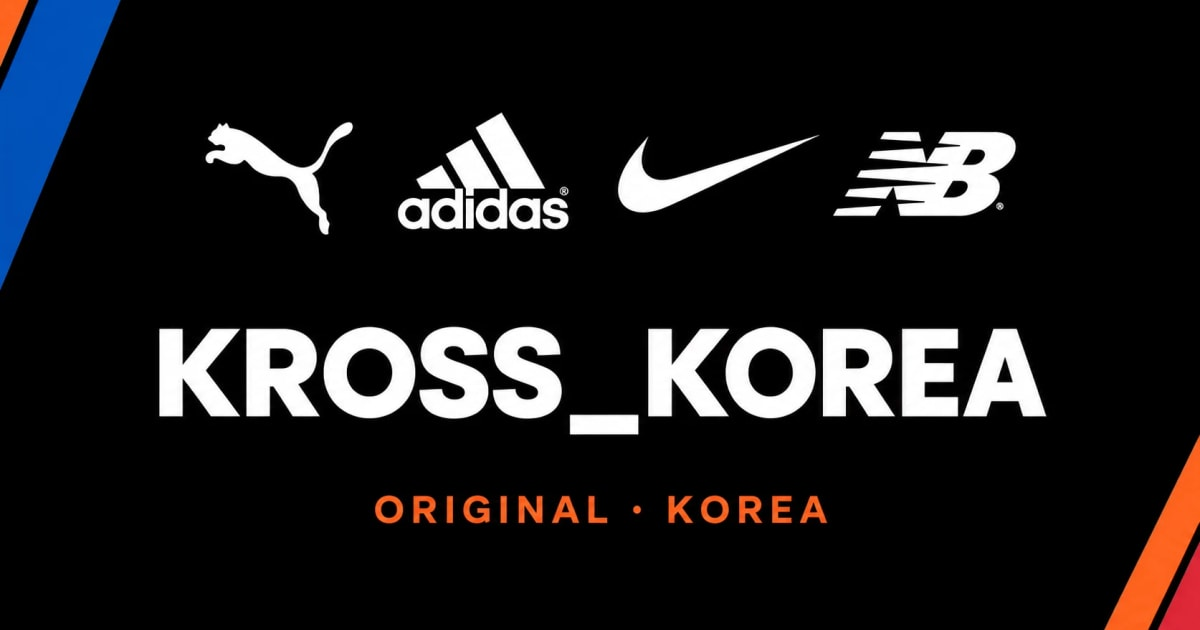
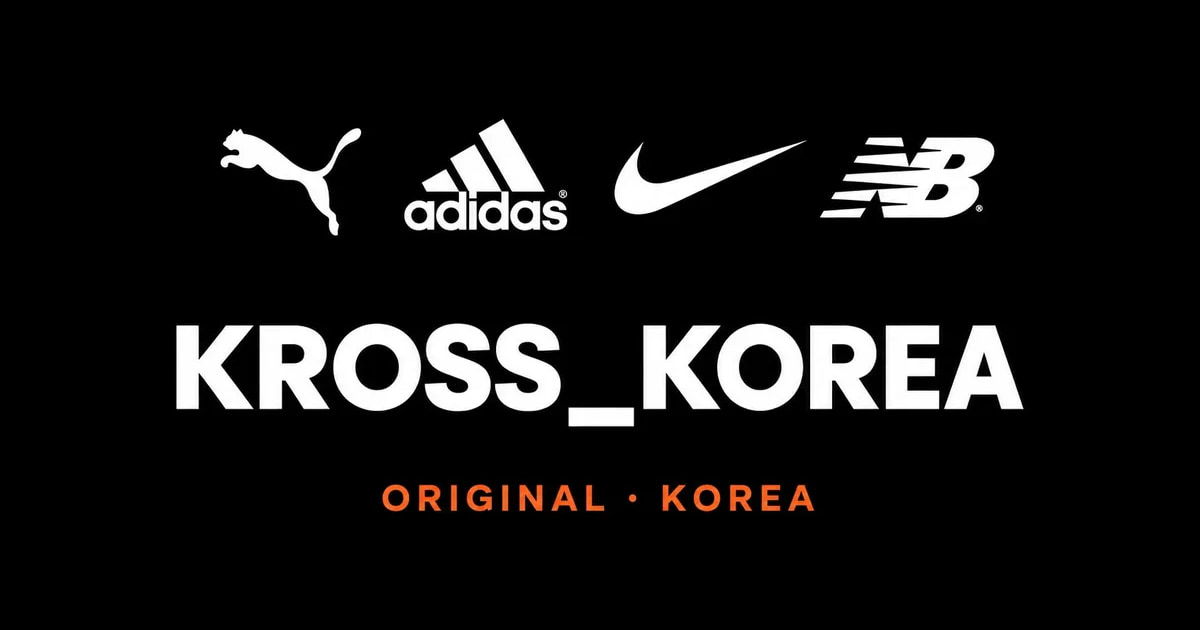
Havola ko'rinishi: qora fonda katta KROSS logosi
- og.jpg (1200×630) qayta yasaldi: toza qora fon, markazda KROSS_KOREA logosi va brend belgilari,
  burchakdagi kesilgan lentalarsiz — Telegramda katta rasm bilan chiqadi
- Sayt tavsifi qisqa va aniq: "Koreyadan keltirilgan 100% original krossovkalar..."
- og:image manziliga ?v=2 — messenjerlar eski rasmni keshdan olmasin
- BREND/miniapp-640x360.jpg — BotFather /newapp uchun rasm (npm run assets yasaydi)
- Bot ishga tushganda nomi "KROSS KOREA" ekanini tekshiradi (t.me havolasi sarlavhasi)

diff --git a/backend/scripts/make-assets.js b/backend/scripts/make-assets.js
@@ -20,15 +20,17 @@ async function banner() {
     .toFile(path.join(config.assetsDir, 'banner.jpg'));
 }
 
-// Kvadrat belgi: qora fon, markazda logo. scale — belgi kvadrat enining qancha qismini egallaydi
-async function square(size, scale) {
-  const width = Math.round(size * scale);
+// Qora fon, markazda logo. scale — belgi kenglikning qancha qismini egallaydi
+async function framed(w, h, scale) {
+  const width = Math.round(w * scale);
   const mark = await sharp(SOURCE).extract(CONTENT).resize({ width }).toBuffer();
   const { height } = await sharp(mark).metadata();
-  return sharp({ create: { width: size, height: size, channels: 3, background: '#000' } }).composite([
-    { input: mark, left: Math.round((size - width) / 2), top: Math.round((size - height) / 2) },
+  return sharp({ create: { width: w, height: h, channels: 3, background: '#000' } }).composite([
+    { input: mark, left: Math.round((w - width) / 2), top: Math.round((h - height) / 2) },
   ]);
 }
+
+const square = (size, scale) => framed(size, size, scale);
 
 async function icons() {
   await fs.mkdir(PUBLIC, { recursive: true });
@@ -44,16 +46,20 @@ async function icons() {
   await (await square(640, 0.7)).png().toFile(path.join(BRAND, 'bot-avatar.png'));
 }
 
-// Havola ulashilganda chiqadigan rasm (Telegram, WhatsApp, Instagram) — 1200×630
+// Havola ulashilganda chiqadigan katta rasm (Telegram, WhatsApp, Instagram) — 1200×630,
+// toza qora fon va markazda KROSS logosi (burchak lentalari kesilib qolmasin)
 async function ogImage() {
-  await sharp(SOURCE)
-    .resize(1200, 630, { fit: 'cover' })
-    .jpeg({ quality: 90, mozjpeg: true })
+  await (await framed(1200, 630, 0.72))
+    .jpeg({ quality: 92, mozjpeg: true, chromaSubsampling: '4:4:4' })
     .toFile(path.join(PUBLIC, 'og.jpg'));
+  // BotFather → /newapp rasmi (640×360): t.me/kross_korea_bot/<nom> havolasi katta rasm bilan chiqadi
+  await (await framed(640, 360, 0.74))
+    .jpeg({ quality: 92, mozjpeg: true, chromaSubsampling: '4:4:4' })
+    .toFile(path.join(BRAND, 'miniapp-640x360.jpg'));
 }
 
 await fs.mkdir(config.assetsDir, { recursive: true });
 await banner();
 await icons();
 await ogImage();
-console.log('✅ banner.jpg, ikonkalar, og.jpg va bot-avatar.png tayyor');
+console.log('✅ banner.jpg, ikonkalar, og.jpg, miniapp-640x360.jpg va bot-avatar.png tayyor');

diff --git a/backend/src/index.js b/backend/src/index.js
@@ -8,9 +8,12 @@ import { registerBotRoutes, BOT_COMMANDS } from './routes/bot.routes.js';
 import { t } from './locales/index.js';
 import { logger } from './utils/logger.js';
 
-// Bot tavsiflari: t.me havolasi ulashilganda, profilda va bo'sh chatda ko'rinadi.
+// Bot nomi va tavsiflari: t.me havolasi ulashilganda (sarlavha + matn), profilda va bo'sh chatda ko'rinadi.
 // O'zbekcha — standart (til kodisiz), ruscha — "ru". Faqat o'zgargan bo'lsa yuboriladi.
 async function syncDescriptions() {
+  if ((await bot.api.getMyName()).name !== SHOP.name) {
+    await bot.api.setMyName(SHOP.name);
+  }
   for (const [lang, language_code] of [['uz', undefined], ['ru', 'ru']]) {
     const other = language_code ? { language_code } : {};
     const short = t(lang, 'botShort');

diff --git a/frontend/src/app/layout.tsx b/frontend/src/app/layout.tsx
@@ -20,9 +20,9 @@ const SITE_URL =
     : 'http://localhost:3000');
 
 const TITLE = 'KROSS KOREA — Koreyadan original krossovkalar';
-const DESCRIPTION =
-  "Nike, Adidas, New Balance, Puma — Koreyaning rasmiy do'konlaridan 100% original. O'zbekiston va Koreya bo'ylab yetkazib berish.";
-const OG_IMAGE = { url: '/images/og.jpg', width: 1200, height: 630, alt: 'KROSS KOREA — Original · Korea' };
+const DESCRIPTION = 'Koreyadan keltirilgan 100% original krossovkalar: Nike, Adidas, New Balance va Puma.';
+// ?v= — rasm yangilanganda messenjerlar eski nusxani keshdan olmasin
+const OG_IMAGE = { url: '/images/og.jpg?v=2', width: 1200, height: 630, alt: 'KROSS KOREA — Original · Korea' };
 
 export const metadata: Metadata = {
   metadataBase: new URL(SITE_URL),

diff --git a/frontend/src/app/admin/layout.tsx b/frontend/src/app/admin/layout.tsx
@@ -12,7 +12,7 @@ export const metadata: Metadata = {
     title: 'KROSS KOREA — Admin panel',
     description: "Buyurtmalar, mahsulotlar, ombor va sozlamalarni boshqarish",
     url: '/admin',
-    images: [{ url: '/images/og.jpg', width: 1200, height: 630, alt: 'KROSS KOREA' }],
+    images: [{ url: '/images/og.jpg?v=2', width: 1200, height: 630, alt: 'KROSS KOREA' }],
   },
 };
 
